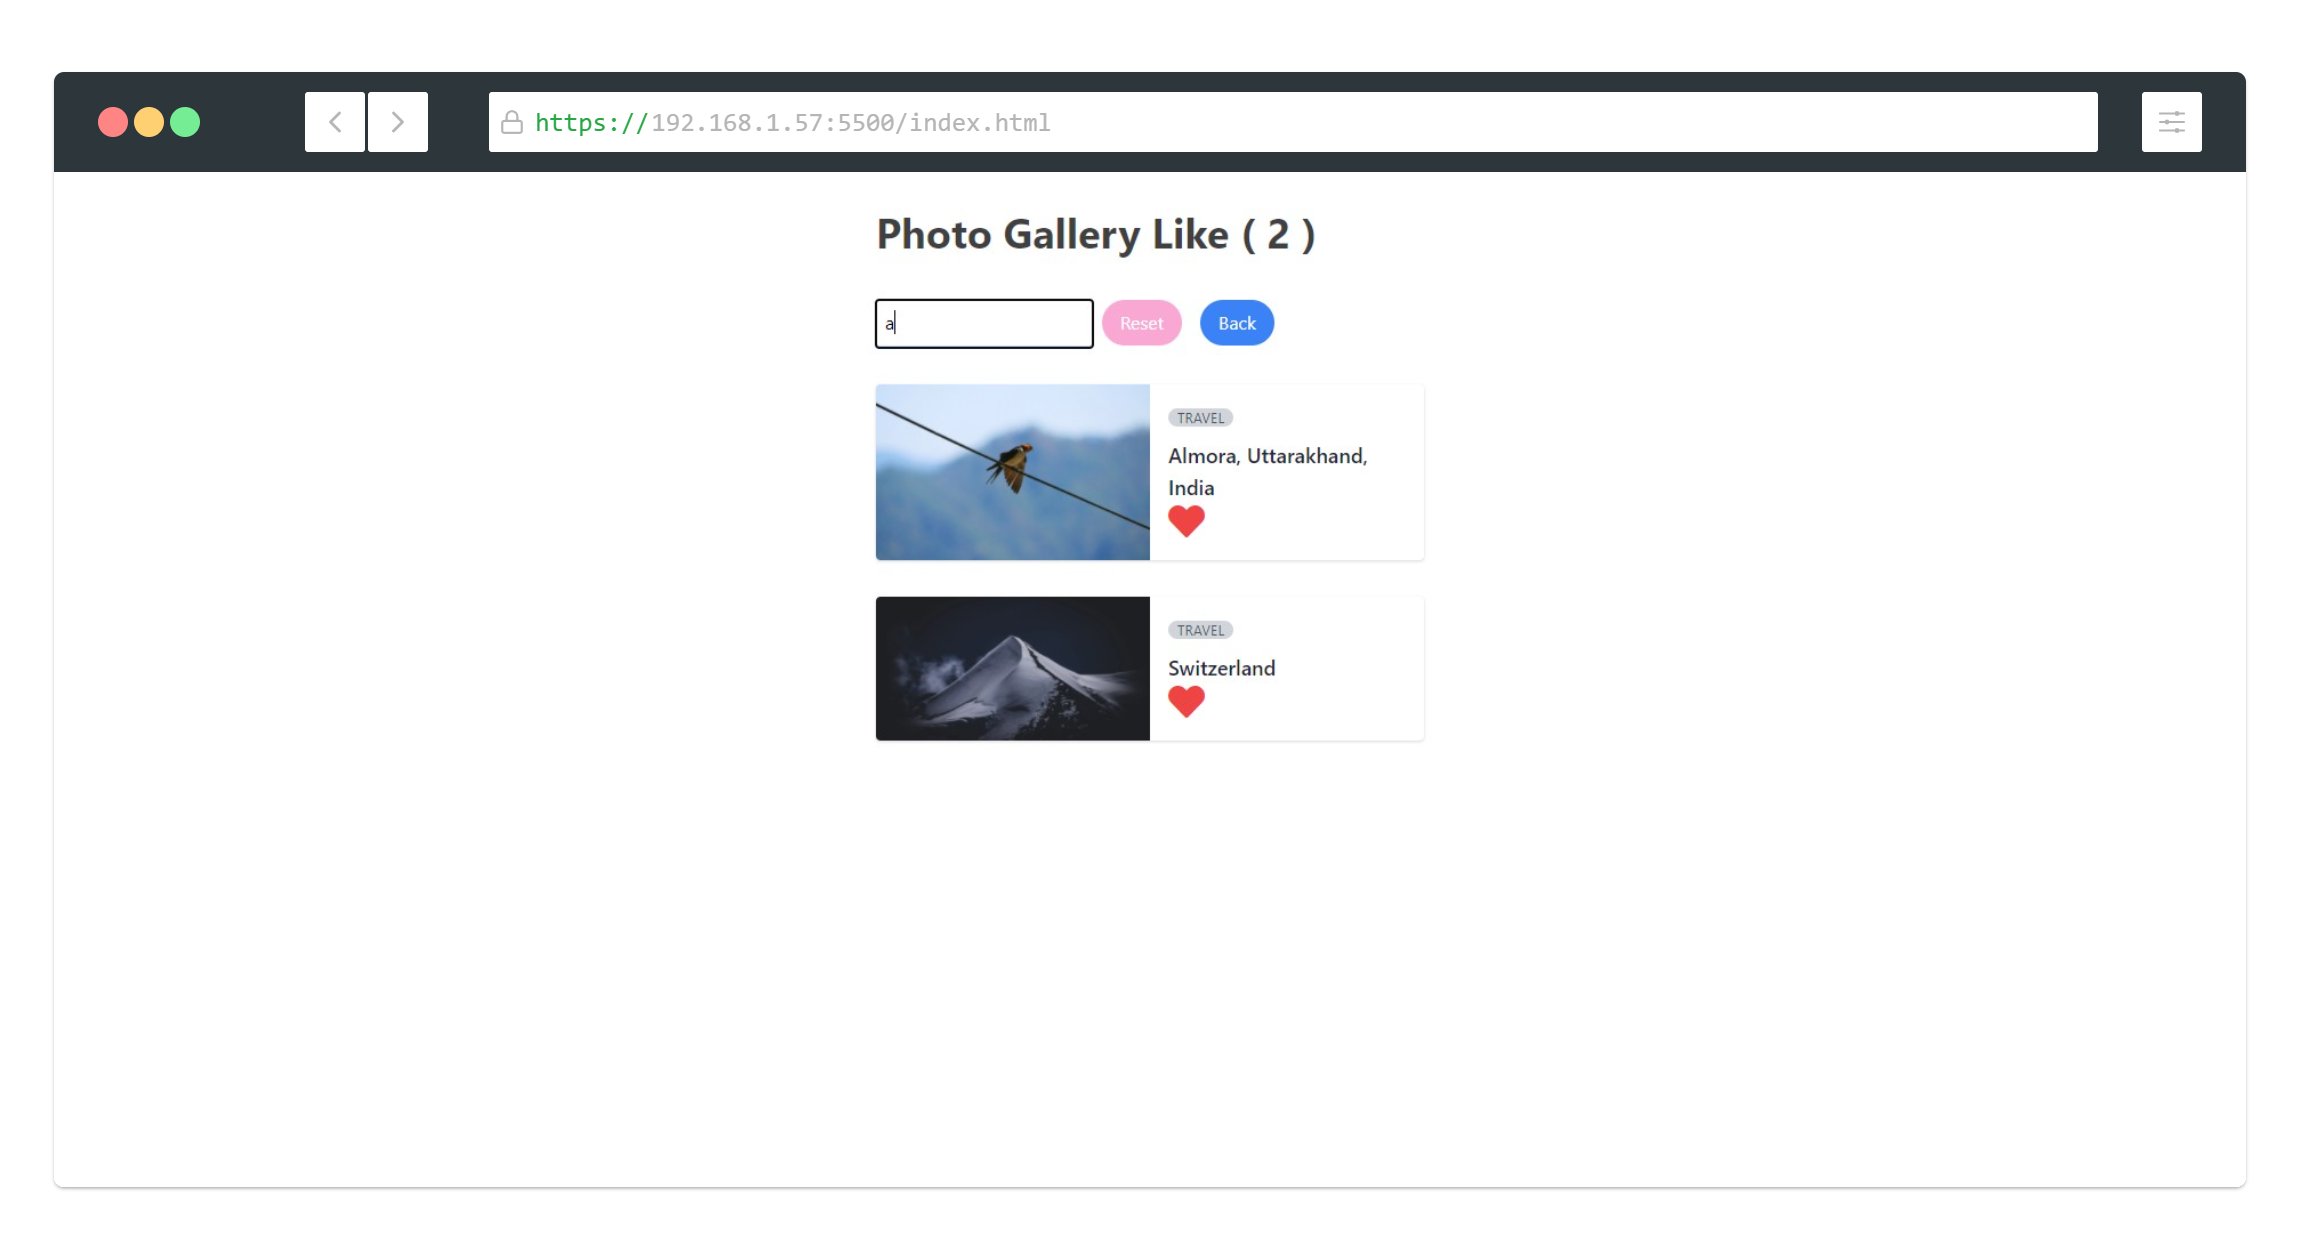
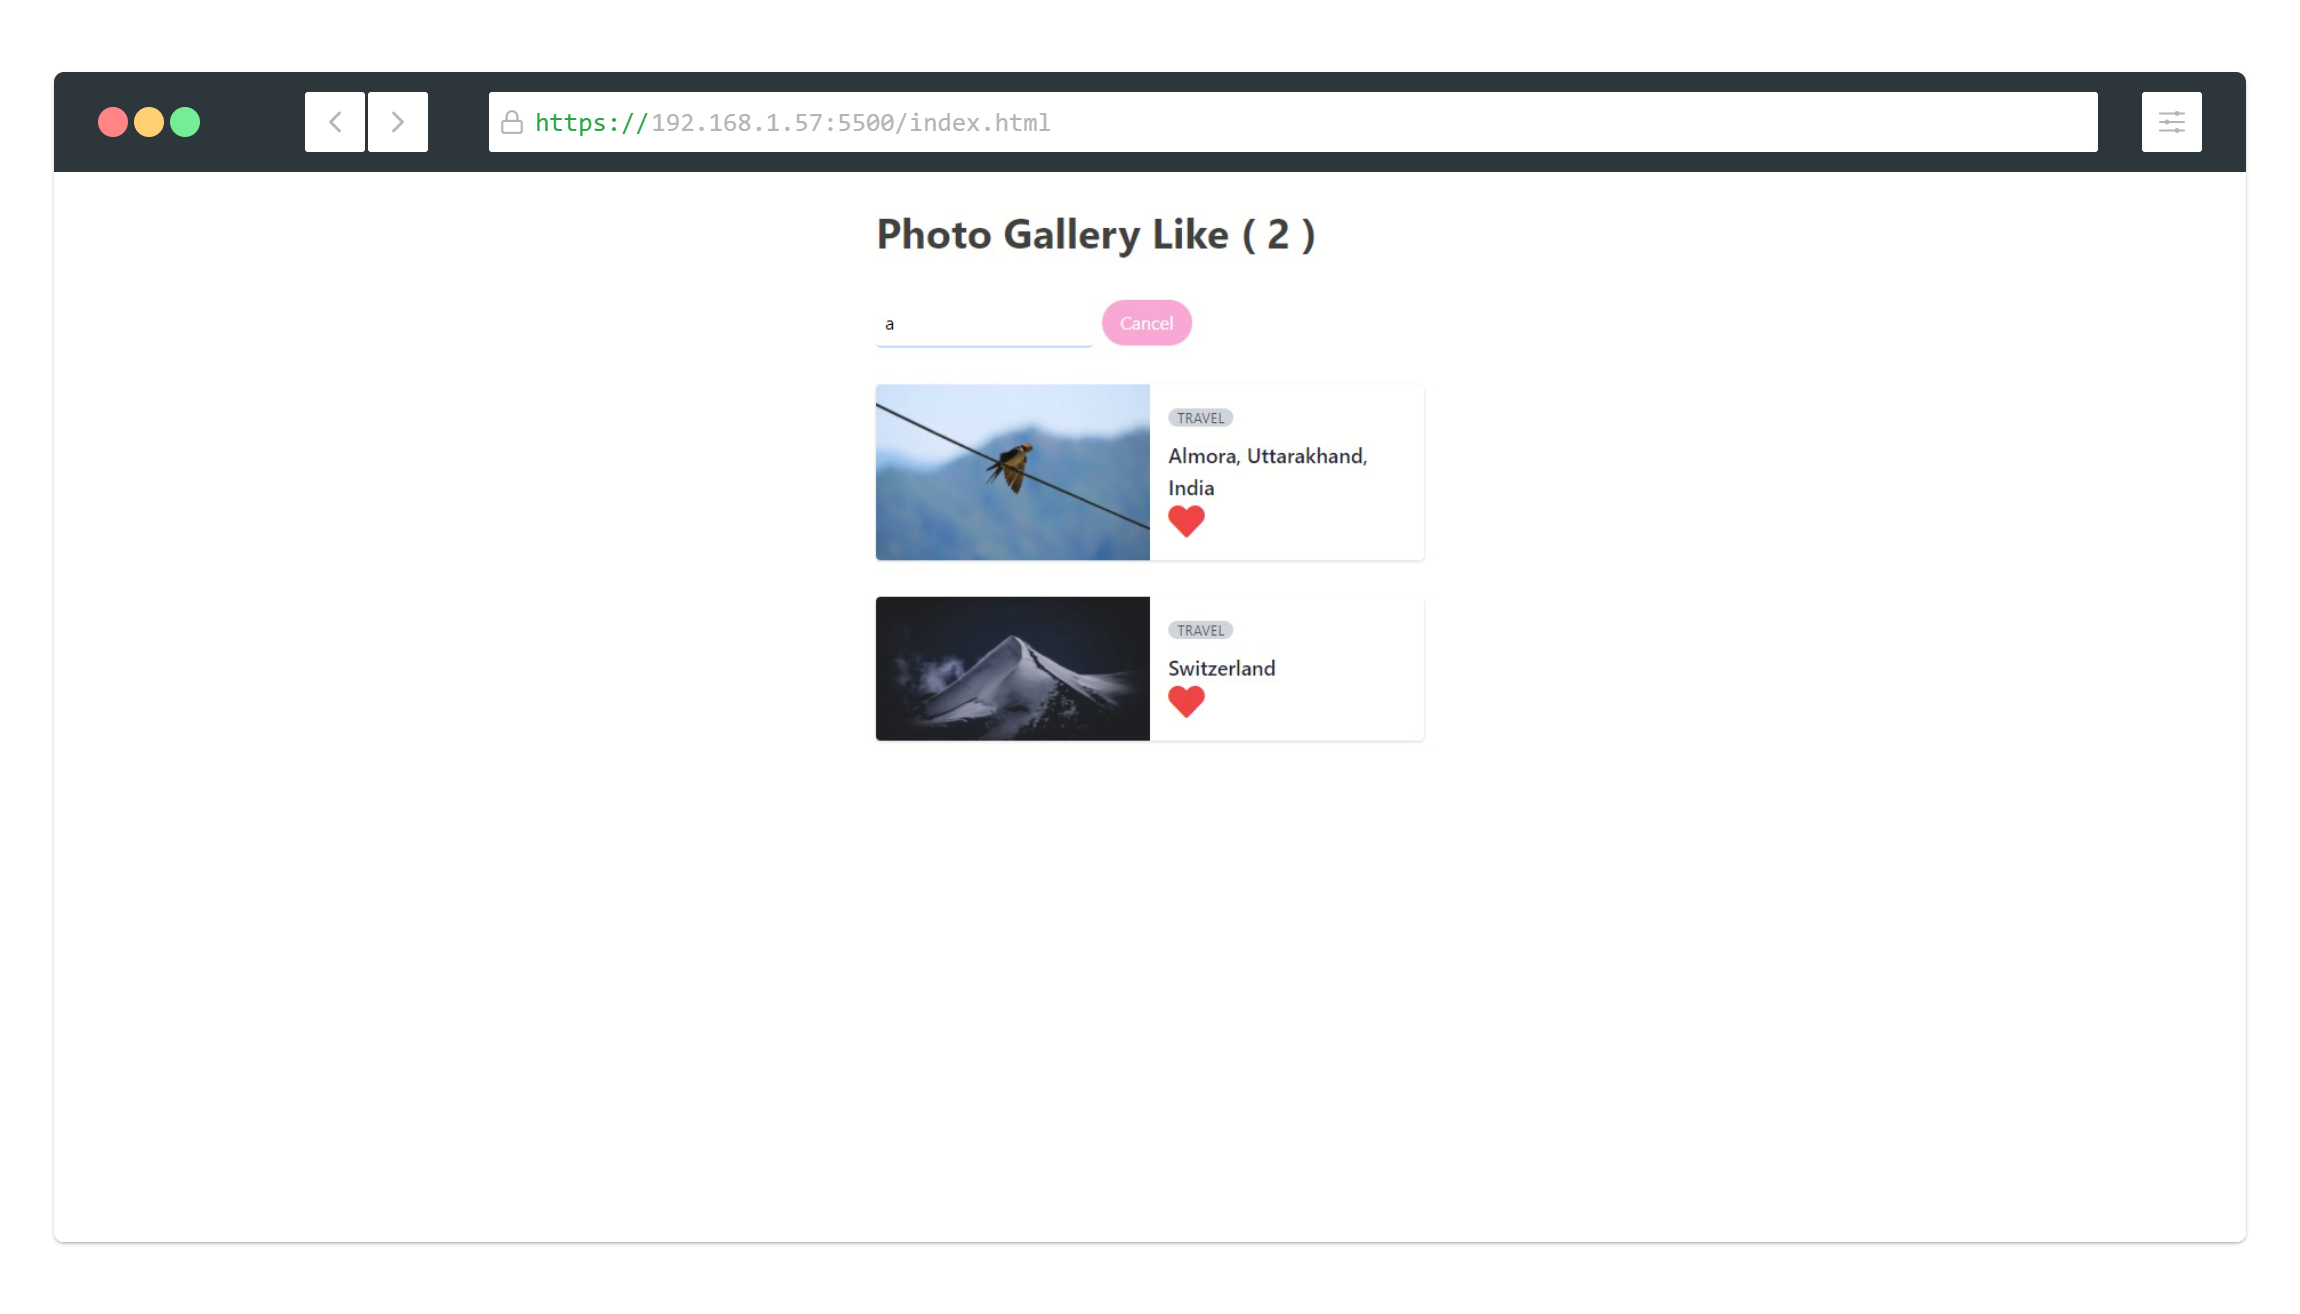
[Update]event,pre

Changed region(s): [[0.0309, 0.062, 0.9878, 0.5886], [0.0309, 0.9293, 0.957, 0.9603]]

diff --git a/INT203_62130500012_GroupWork_4/index.html b/INT203_62130500012_GroupWork_4/index.html
@@ -31,8 +31,7 @@
             <span :class="{'hidden' : !form.search}">
                 <input class="flex-1 p-2 bg-white border-b-2 border-blue-200 rounded"
                     placeholder="Please enter text for searching photos" v-model="form.text">
-                <button class="px-4 py-2 mx-2 text-white bg-pink-300 rounded-full" @click="cancel">Reset</button>
-                <button class="px-4 py-2 mx-2 text-white bg-blue-500 rounded-full" @click="search">Back</button>
+                <button class="px-4 py-2 mx-2 text-white bg-pink-300 rounded-full" @click="cancel">Cancel</button>
             </span>
             <!--whole card act as link-->
             <div v-for="task in searching" v-if="searching.length !== 0">

diff --git a/INT203_62130500012_GroupWork_4/main.js b/INT203_62130500012_GroupWork_4/main.js
@@ -48,6 +48,7 @@ const app = {
             this.hasView = true;
         },
         cancel() {
+            this.form.search = !this.form.search
             this.form.text = '';
         },
         close() {
